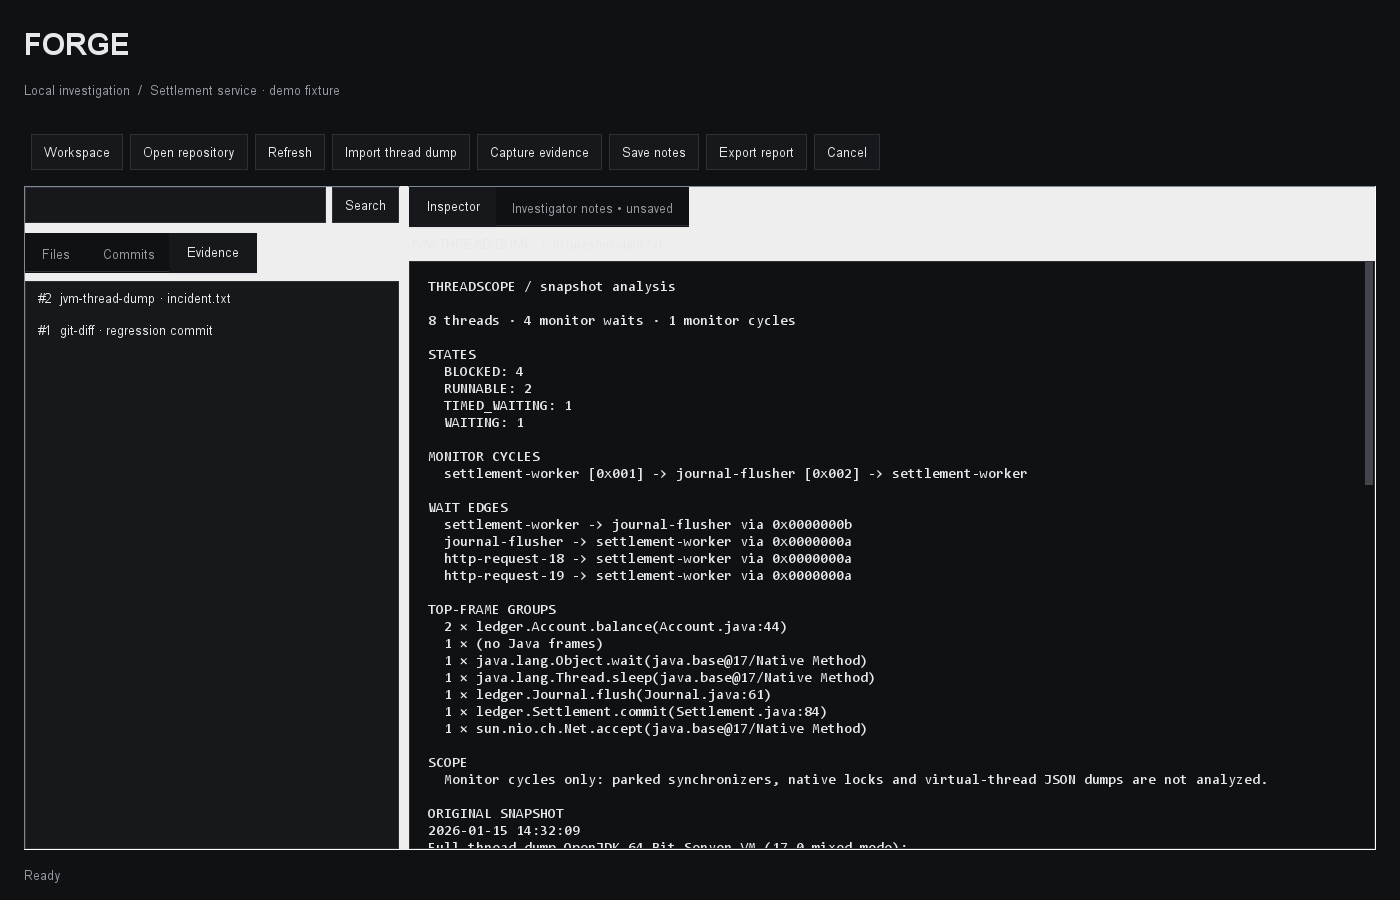
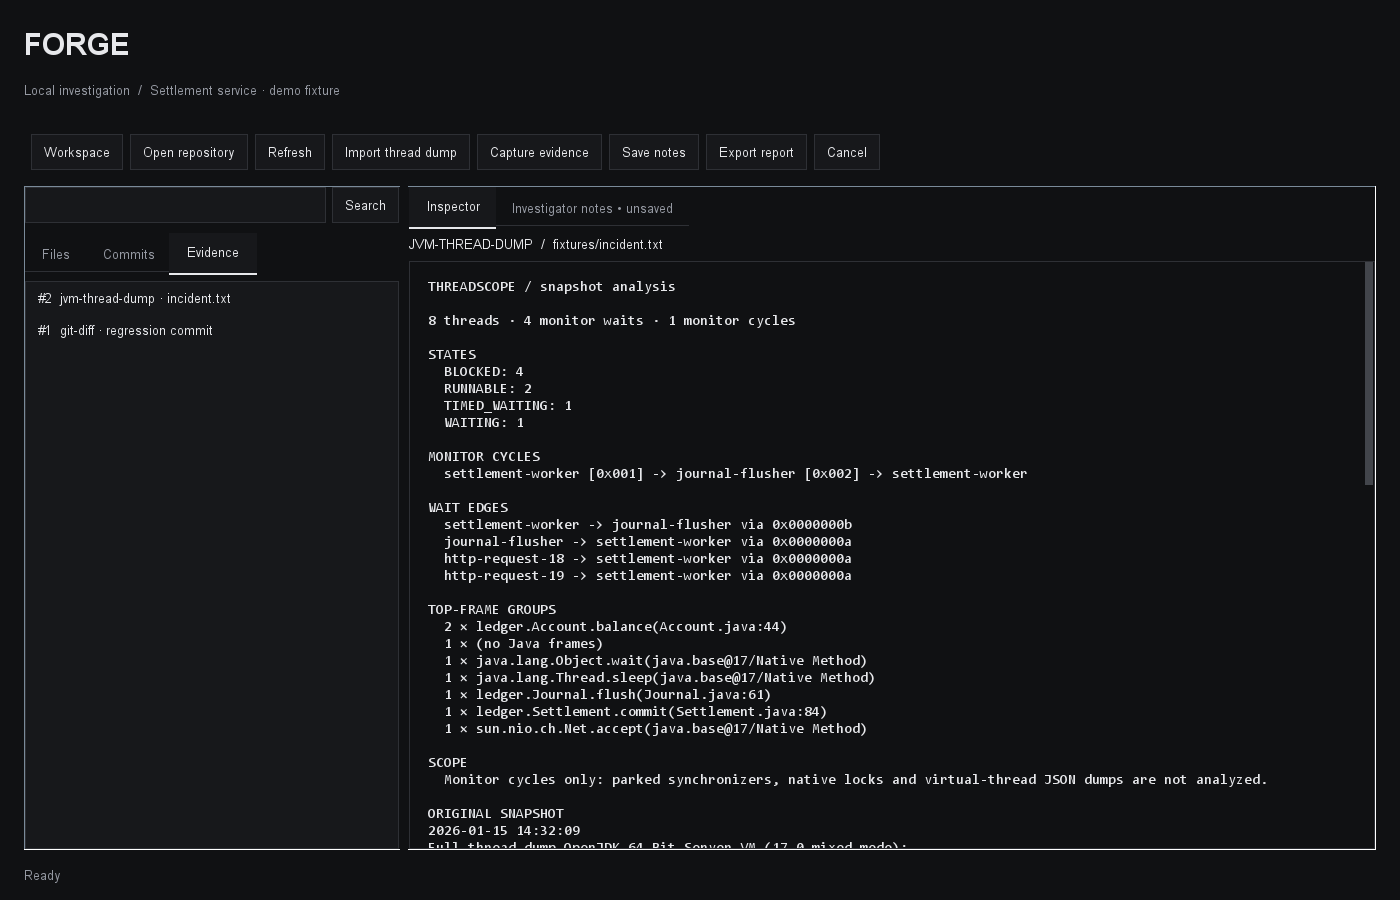
Keep split panes and tab surfaces opaque in the dark theme

Changed region(s): [[0.0, 0.1867, 0.9829, 0.9333]]

diff --git a/desktop/src/forge/Theme.java b/desktop/src/forge/Theme.java
@@ -54,8 +54,11 @@ final class Theme {
             tabs.setUI(new Tabs());
             tabs.setBackground(BACKGROUND);
             tabs.setForeground(MUTED);
+            tabs.setOpaque(true);
         }
         if (component instanceof JSplitPane split) {
+            split.setBackground(BACKGROUND);
+            split.setOpaque(true);
             split.setUI(new BasicSplitPaneUI() {
                 public BasicSplitPaneDivider createDefaultDivider() {
                     BasicSplitPaneDivider divider = new BasicSplitPaneDivider(this);
